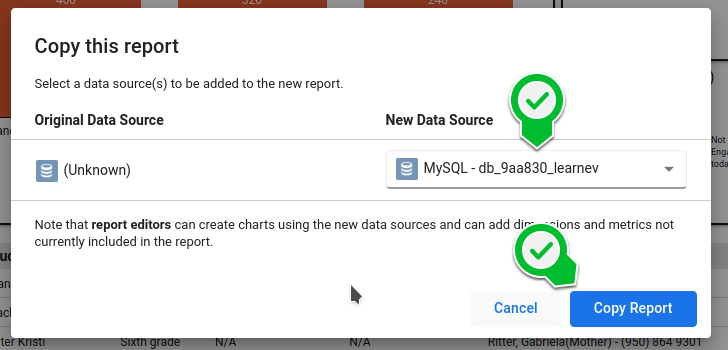
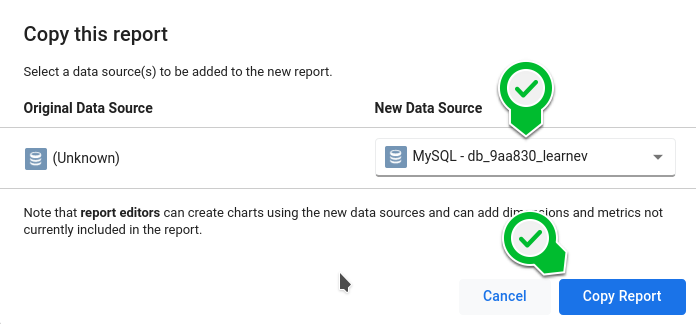
Updating pics and formating for the Readme.md instructions

Changed region(s): [[0.0, 0.0, 1.0, 1.0], [0.6638, 0.8642, 0.7543, 0.9259], [0.4828, 0.8333, 0.5129, 0.8951]]

diff --git a/README.md b/README.md
@@ -30,25 +30,29 @@ This repository includes a Google Chrome plugin that captures student navigation
    * _StudentLearningEventsConnectionString_ and,
    * _EdFiODSConnectionString_
 
-<img src="img/configjson.png" width="600" >
+    <img src="img/configjson.png" width="800" >
+
 4. Open PowerShell as an "Administrator"
 <br/><img src="img/powershell1.png" width="400" >
+
 5. Navigate to the path where you unzipped the code and into the ~\Installer folder.
 <br/><img src="img/powershell2.png" width="500" >
+
 6. Execute the following command:
+    ```PowerShell
+    C:\temp\edfi\StudentEngegement\Ed-Fi-X-StudentEngagement-master\Installer> .\Install.ps1
+    ```
+    <img src="img/powershell3.png" width="850" >
+    
+    *Note: If you skipped or did not configure the <b>config.json</b> you will see some warnings and it will not let you proceed.
 
-```PowerShell
-C:\temp\edfi\StudentEngegement\Ed-Fi-X-StudentEngagement-master\Installer> .\Install.ps1
-```
-<br/><img src="img/powershell3.png" width="500" >
-<br/>*Note: If you skipped or did not configure the <b>config.json</b> you will see some warnings and it will not let you proceed.
-Continue by choosing the type of installation you wish to use. For the sake of these instructions we will use "Install everything"
-
-```PowerShell
-C:\temp\edfi\StudentEngegement\Ed-Fi-X-StudentEngagement-master\Installer> ./Install-StudentEngagementTracker
-```
-Once the install succeeds it will open a chrome browser with the URL of the API and the plugin installed on the top right corner.<br/><img src="img/chrome1.png" width="600" >
-<br/> At the end a Chrome window will be open to the webapi URL. Chrome will install the plugin from the web store.
+7. Continue by choosing the type of installation you wish to use. For the sake of these instructions we will use "Install everything"
+    ```PowerShell
+    C:\temp\edfi\StudentEngegement\Ed-Fi-X-StudentEngagement-master\Installer> ./Install-StudentEngagementTracker
+    ```
+    Once the install succeeds it will open a chrome browser with the URL of the API and the plugin installed on the top right corner.<br/>
+    <img src="img/chrome1.png" width="600" ><br/>
+    At the end a Chrome window will be open to the webapi URL. Chrome will install the plugin from the web store.
 
 ## Configure Google Data Studio Report
 We have provided a sample Google Data Studio report template. To be able to update the report we need you to first create a data source and then make a copy of the report.
@@ -65,7 +69,8 @@ We have provided a sample Google Data Studio report template. To be able to upda
    1. Input the server, database name and credentials and click on the _AUTHENTICATE_ button. This will load the tables on the right.
    2. On the TABLES column, select the _studentengagementreport_ view and 
    3. Finally click on the _Connect_ button on the top right of the screen
-<br/><img src="img/CreateDataSource4.png" width="700" >
+
+    <img src="img/CreateDataSource4.png" width="700" >
 
 
 ### Copy report
